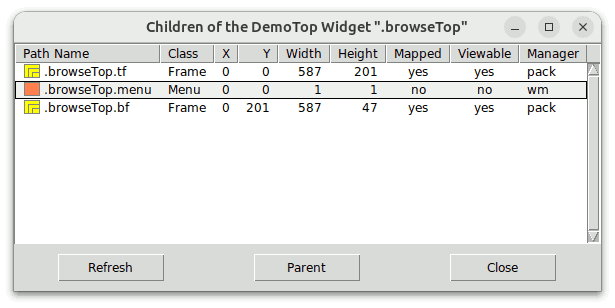
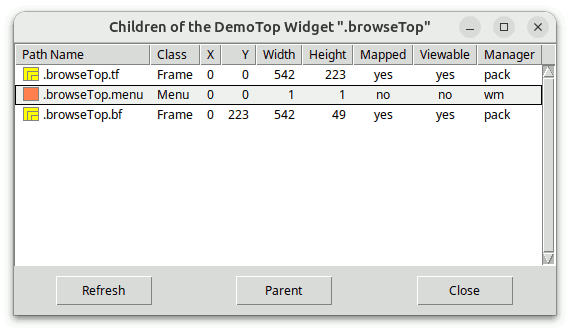
Tablelist: Updated two demo scripts and several screenshots.

Changed region(s): [[0.0, 0.0292, 0.9842, 0.9643]]

diff --git a/modules/tablelist/doc/tablelist.html b/modules/tablelist/doc/tablelist.html
@@ -795,7 +795,7 @@ demo::displayConfig .configTop.tf.tbl
   the following figure:</p>
 
   <blockquote>
-    <img src="config.png" alt="Configuration Options" width="843" height="411">
+    <img src="config.png" alt="Configuration Options" width="743" height="445">
   </blockquote>
 
   <p>It is assumed that the Tcl command associated with the widget specified by
@@ -1249,14 +1249,14 @@ demo::displayChildren .
   in the file <code>browse.tcl</code> is a multi-column listbox:</p>
 
   <blockquote>
-    <img src="browse.png" alt="Widget Browser" width="615" height="308">
+    <img src="browse.png" alt="Widget Browser" width="570" height="332">
   </blockquote>
 
   <p>The tablelist created by the procedure of the same name in the file
   <code>browseTree.tcl</code> is a multi-column tree widget:</p>
 
   <blockquote>
-    <img src="browseTree.png" alt="Widget Browser" width="631" height="308">
+    <img src="browseTree.png" alt="Widget Browser" width="588" height="332">
   </blockquote>
 
   <p>The <code>demo::displayChildren</code> command inserts some data of the
@@ -1914,7 +1914,7 @@ proc demo::restoreExpandedStates {tbl nodeIdx expandedWidgetsName} {
   as multi-column tree widget:</p>
 
   <blockquote>
-    <img src="dirViewer.png" alt="Directory Viewer" width="683" height="465">
+    <img src="dirViewer.png" alt="Directory Viewer" width="603" height="465">
   </blockquote>
 
   <p>By double-clicking an item or invoking the single entry of a pop-up menu
@@ -1997,7 +1997,7 @@ proc displayContents dir {
                   0 "Date Modified" left} \
         -expandcommand expandCmd -collapsecommand collapseCmd \
         -xscrollcommand [list $hsb set] -yscrollcommand [list $vsb set] \
-        -movablecolumns no -setgrid no -showseparators yes -height 20 -width 80
+        -movablecolumns no -setgrid no -showseparators yes -height 16 -width 80
     if {[$tbl cget -selectborderwidth] == 0} {
         $tbl configure -spacing 1
     }
@@ -2274,7 +2274,7 @@ displayContents ""
   the following figure:</p>
 
   <blockquote>
-    <img src="styles.png" alt="Styles" width="703" height="523">
+    <img src="styles.png" alt="Styles" width="623" height="565">
   </blockquote>
 
   <p>Here is the relevant code segment:</p>
@@ -2868,8 +2868,8 @@ $tbl embedcheckbuttons 1 updateCkbtn
   <code>active</code> state:</p>
 
   <blockquote>
-    <img src="embeddedWindows.png" alt="Embedded Windows" width="436" height=
-    "333">
+    <img src="embeddedWindows.png" alt="Embedded Windows" width="411" height=
+    "338">
   </blockquote>
 
   <p>First, we create and populate the tablelist widget:</p>
@@ -3316,8 +3316,8 @@ if {[tk windowingsystem] eq "x11" &&
   the details.&nbsp; Here is a screenshot of the resulting window:</p>
 
   <blockquote>
-    <img src="embeddedWindows_tile.png" alt="Embedded Windows" width="436"
-    height="334">
+    <img src="embeddedWindows_tile.png" alt="Embedded Windows" width="411"
+    height="339">
   </blockquote>
 
   <p>Finally, notice that the following tile-based demo-scripts provide
